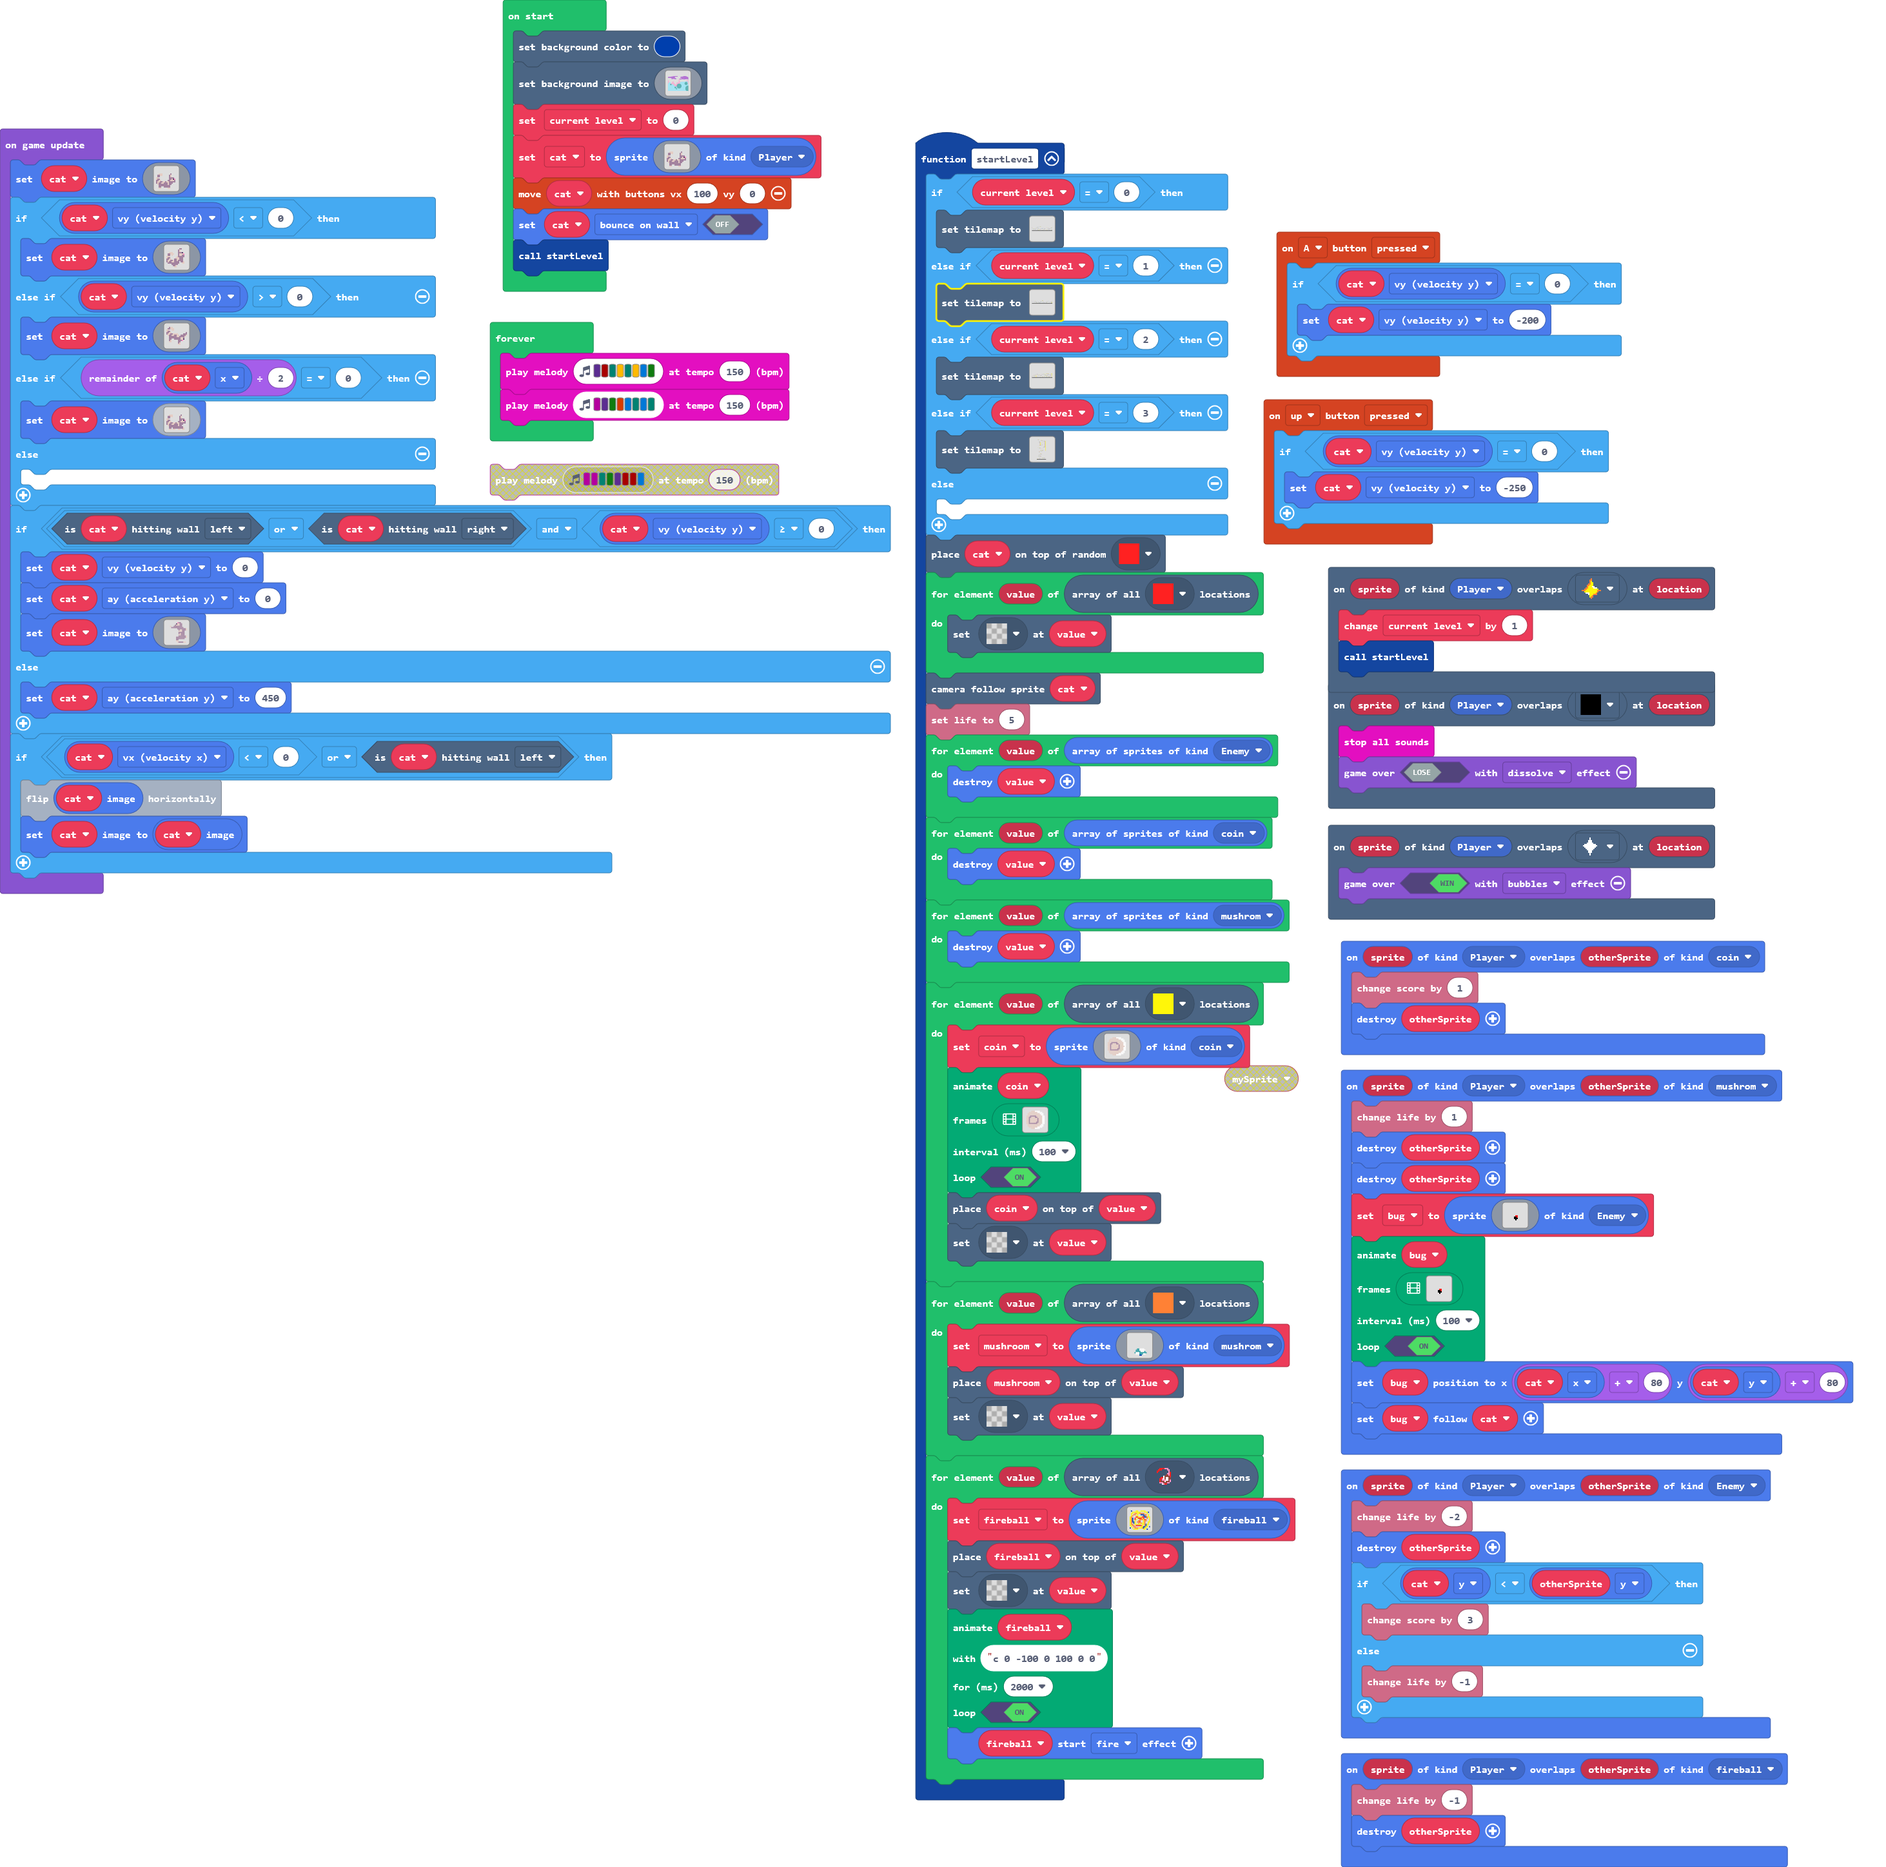
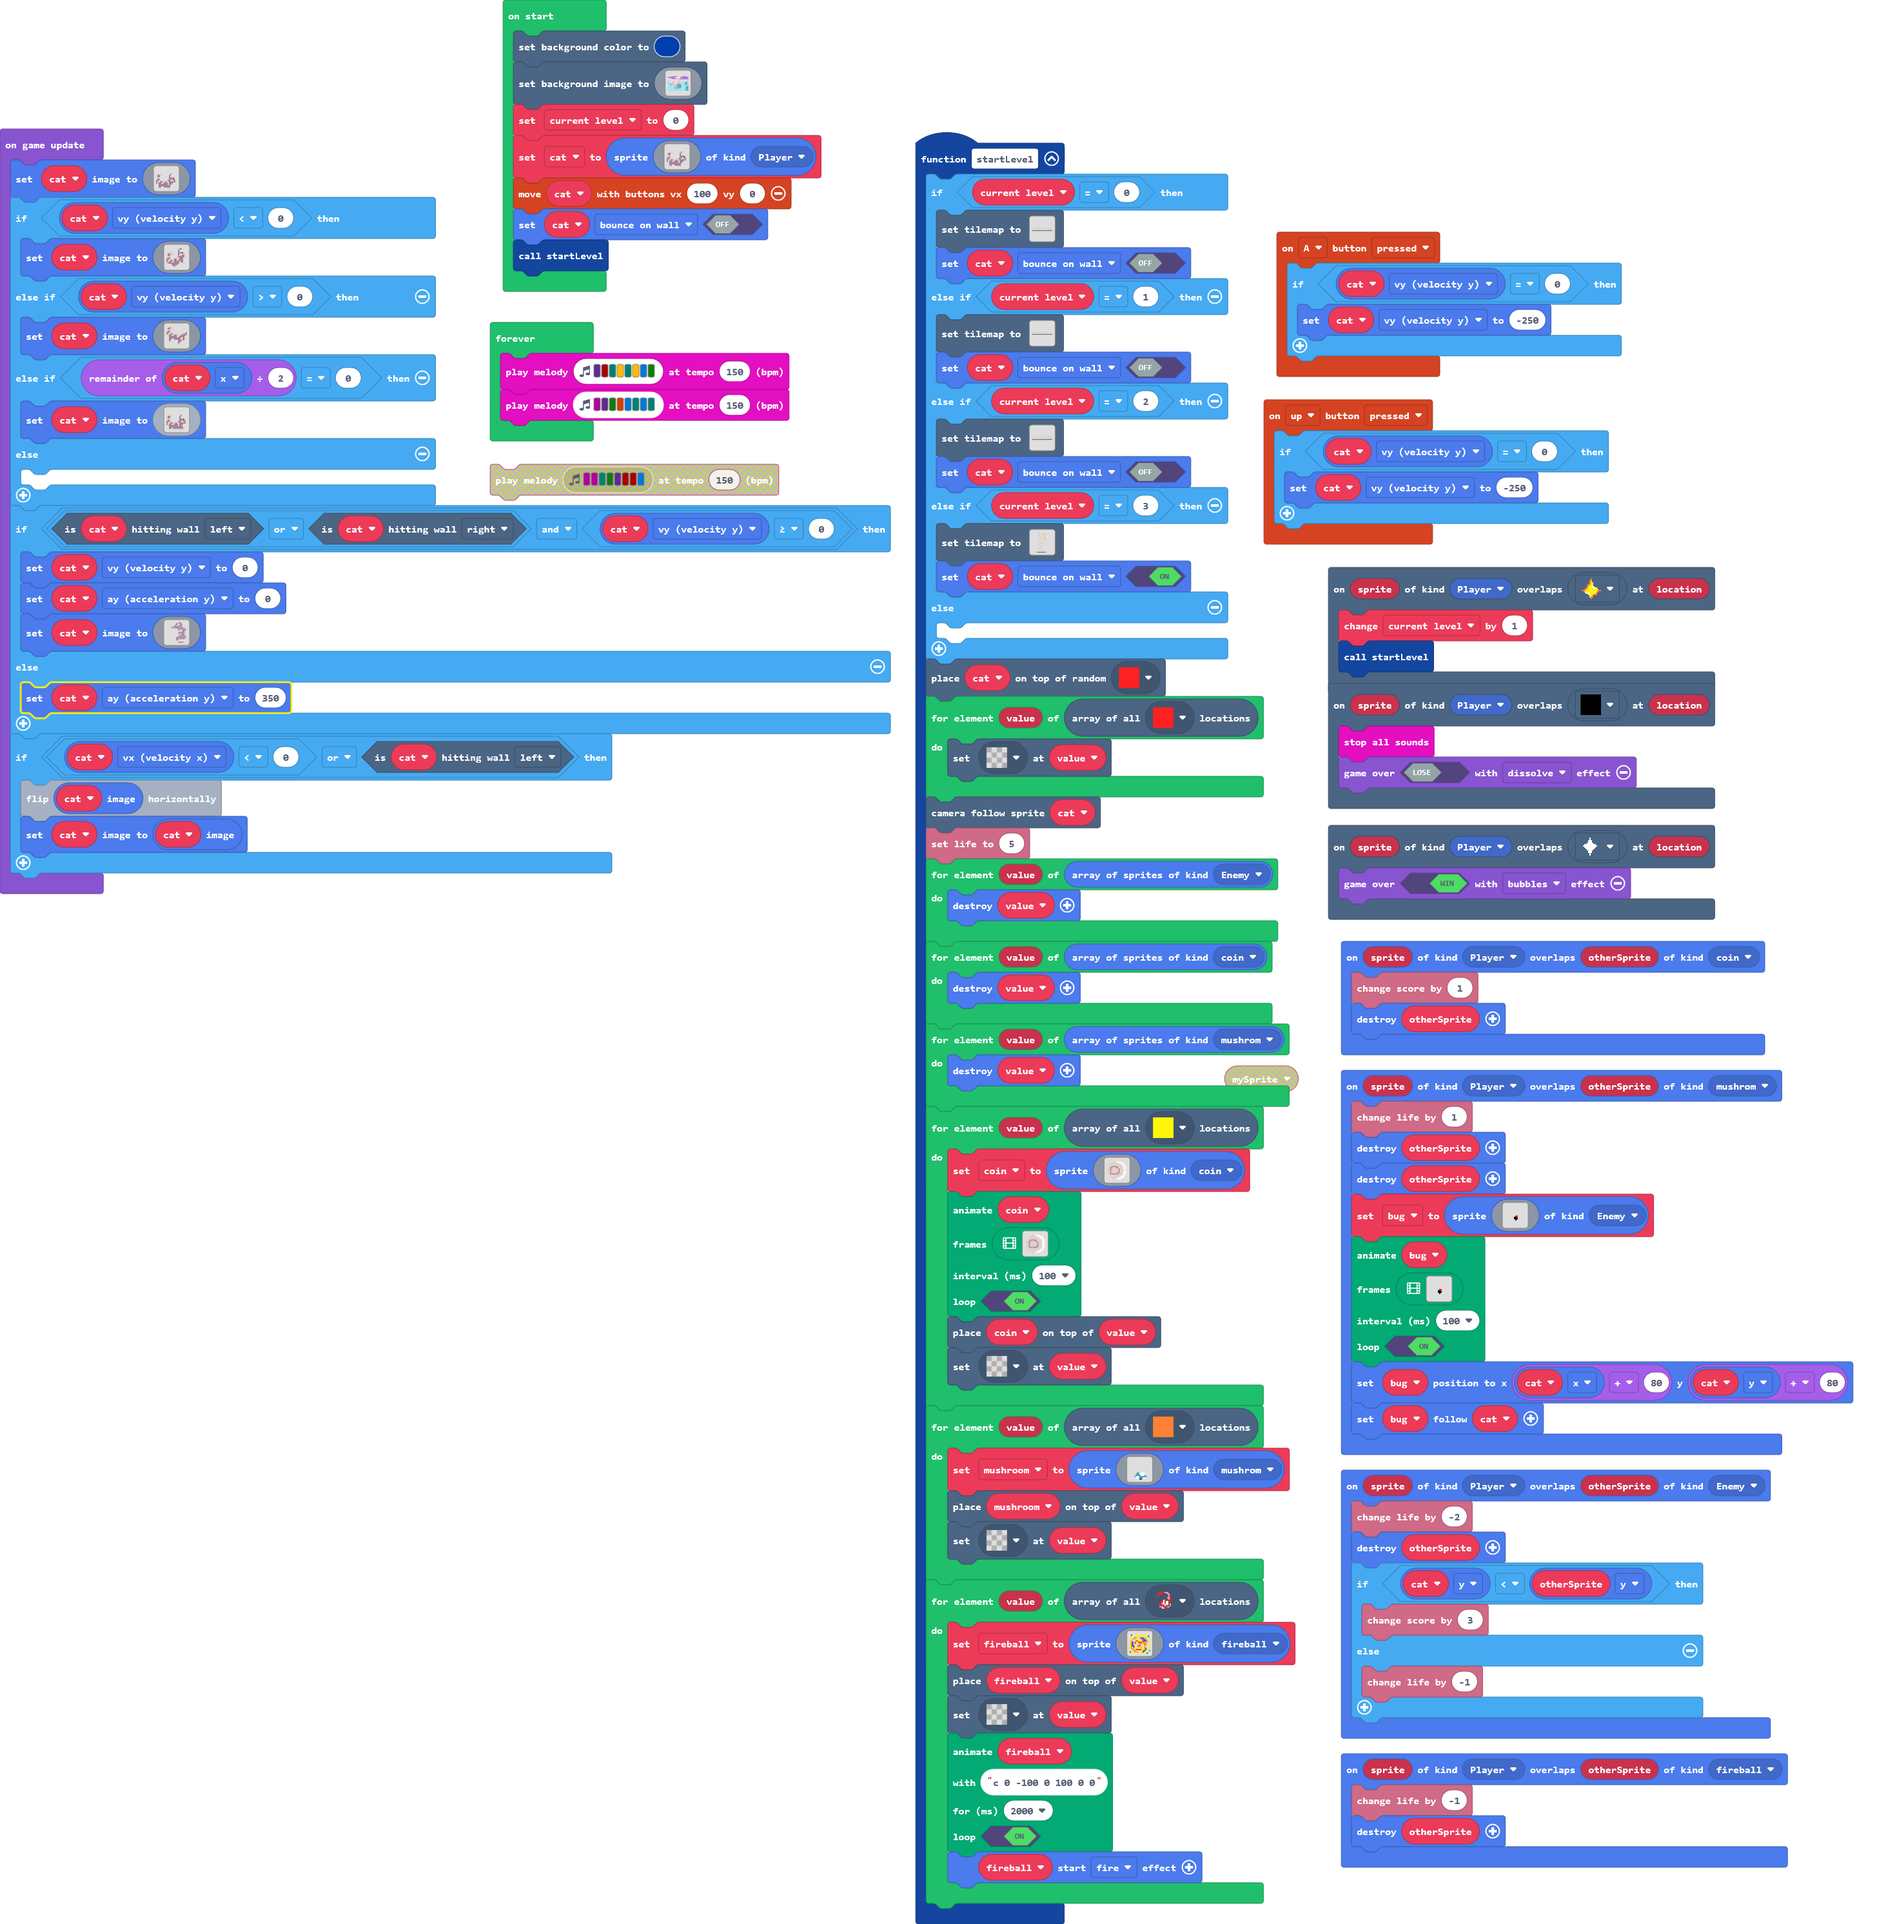
Tried to fix an issue with movement. Not sure what the problem is.

diff --git a/main.ts b/main.ts
@@ -10,7 +10,7 @@ controller.up.onEvent(ControllerButtonEvent.Pressed, function () {
 })
 controller.A.onEvent(ControllerButtonEvent.Pressed, function () {
     if (cat.vy == 0) {
-        cat.vy = -200
+        cat.vy = -250
     }
 })
 scene.onOverlapTile(SpriteKind.Player, myTiles.tile8, function (sprite, location) {
@@ -189,6 +189,7 @@ function startLevel () {
             ..........................................................................................
             ..........................................................................................
             `, [myTiles.transparency16,myTiles.tile1,myTiles.tile2,myTiles.tile3,myTiles.tile4,myTiles.tile5,myTiles.tile6,myTiles.tile7,myTiles.tile8,myTiles.tile9,myTiles.tile12,myTiles.tile10], TileScale.Sixteen))
+        cat.setFlag(SpriteFlag.BounceOnWall, false)
     } else if (current_level == 1) {
[1 lines of base64/hex data omitted]
             ..........................................................................................
@@ -209,6 +210,7 @@ function startLevel () {
             ..........................................................................................
             ..........................................................................................
             `, [myTiles.transparency16,myTiles.tile1,myTiles.tile2,myTiles.tile3,myTiles.tile4,myTiles.tile5,myTiles.tile6,myTiles.tile7,myTiles.tile8,myTiles.tile9,myTiles.tile10,myTiles.tile12], TileScale.Sixteen))
+        cat.setFlag(SpriteFlag.BounceOnWall, false)
     } else if (current_level == 2) {
[1 lines of base64/hex data omitted]
             ..........................................................................................
@@ -232,6 +234,7 @@ function startLevel () {
             ..........................................................................................
             ..........................................................................................
             `, [myTiles.transparency16,myTiles.tile1,myTiles.tile2,myTiles.tile3,myTiles.tile4,myTiles.tile5,myTiles.tile6,myTiles.tile7,myTiles.tile8,myTiles.tile9,myTiles.tile10,myTiles.tile12,myTiles.tile17], TileScale.Sixteen))
+        cat.setFlag(SpriteFlag.BounceOnWall, false)
     } else if (current_level == 3) {
[1 lines of base64/hex data omitted]
             ........................................
@@ -325,6 +328,7 @@ function startLevel () {
             ........................................
             ........................................
             `, [myTiles.transparency16,myTiles.tile1,myTiles.tile2,myTiles.tile3,myTiles.tile4,myTiles.tile5,myTiles.tile6,myTiles.tile7,myTiles.tile9,myTiles.tile10,myTiles.tile12,myTiles.tile14,myTiles.tile15,myTiles.tile16,myTiles.tile17,myTiles.tile18], TileScale.Sixteen))
+        cat.setFlag(SpriteFlag.BounceOnWall, true)
     } else {
     	
     }
@@ -904,7 +908,7 @@ game.onUpdate(function () {
             . . . . . . . . . d b b b b d d . 
             `)
     } else {
-        cat.ay = 450
+        cat.ay = 350
     }
     if (cat.vx < 0 || cat.isHittingTile(CollisionDirection.Left)) {
         cat.image.flipX()
